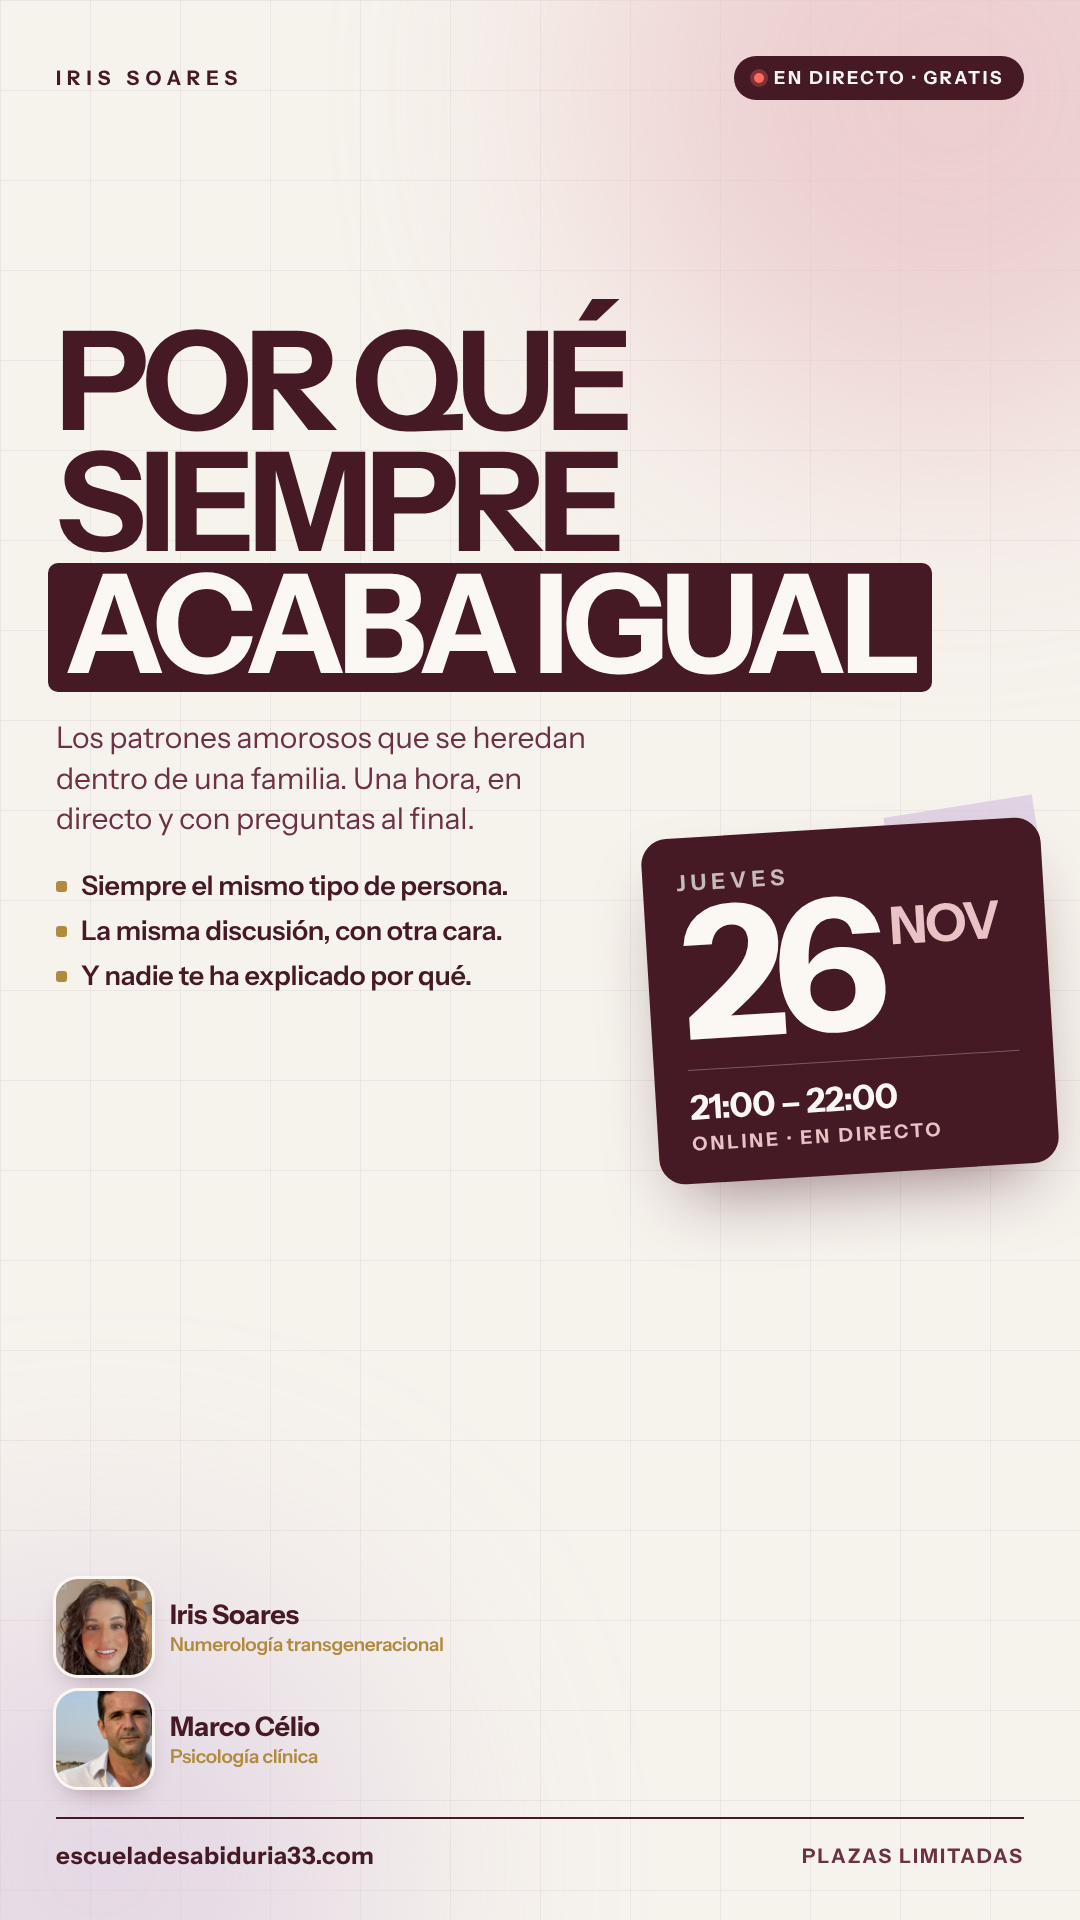
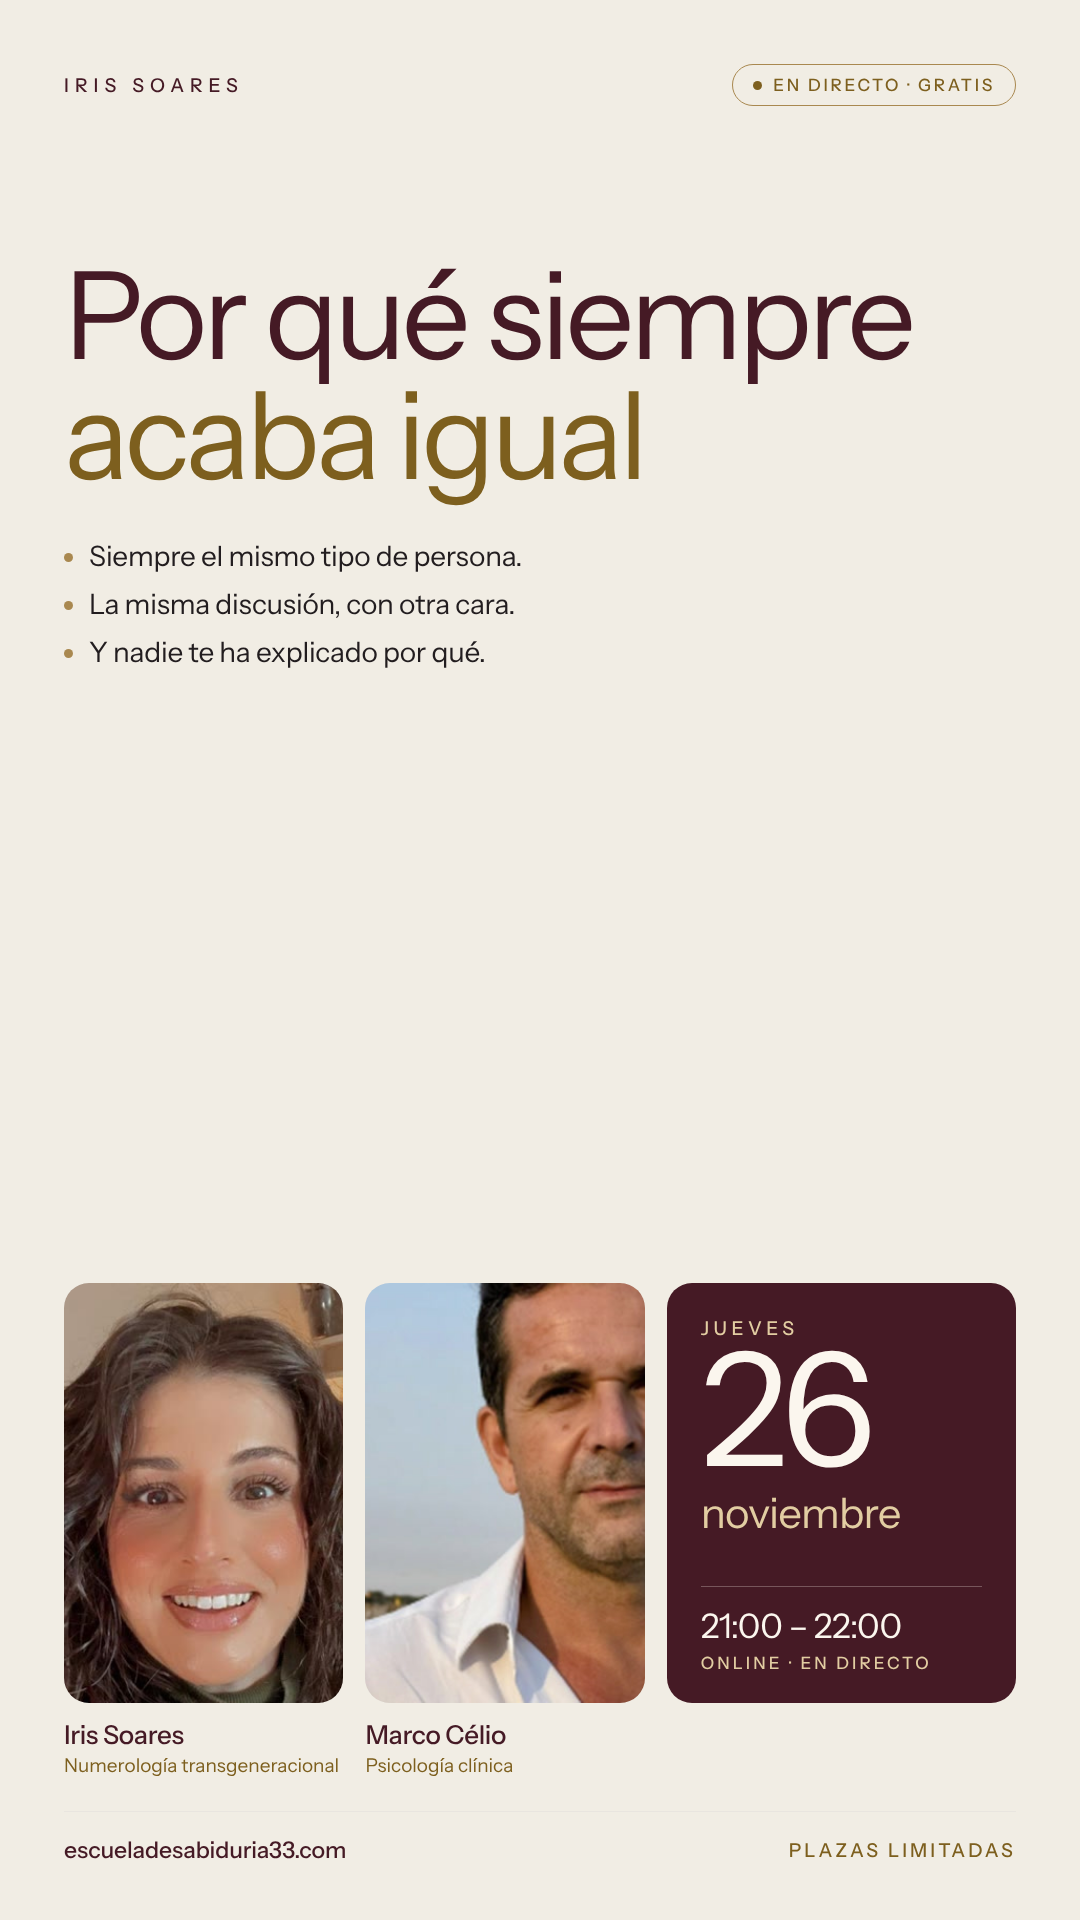
Los creativos, rehechos contra MARCA.md
Gerson, viendo una pieza con el titular encima de la cara de Iris: «¿a
usted le parece bien taparle la cara? busca archivos y documentos de hacer
buenos diseños, sigue los parámetros bien».

El documento estaba aquí mismo y lo que yo había hecho rompía cuatro
reglas escritas:

  §2  «Por encima de 500 no se sube. Un titular no se enfatiza
      engordándolo», y `--peso-fino` es 300 para los titulares grandes.
      Yo los puse todos a 700. Por eso parecían un cartel de discoteca y
      no esta marca — y por eso no era lo que se pidió dos veces, que era
      «Apple style modern light».
  §3  «Un color se usa por su token, nunca por su hexadecimal.» Me
      inventé un dorado #f2c14e, un rosa y un malva que no existen.
      Ahora sólo entran --vino, --oro, --oro-tinta, --oro-luz, --arena,
      --linea y --tinta. El énfasis del titular va en --oro-tinta y no en
      --oro, porque --oro no llega a 4,5:1 sobre claro y como texto no
      vale.
  §4  Radios 4 / 3 / 12 / 25 / 100. Usaba 26, 44 y 999 a ojo.
  §8.3 «Se mide, no se mira por encima: contraste, encuadre y SOLAPES se
      comprueban con una captura y un número.» No lo medí. De ahí el
      titular sobre la cara.

EL SOLAPE AHORA ES IMPOSIBLE, NO IMPROBABLE. Cada retrato vive en su
panel y el texto en el suyo; el nombre va debajo, sobre el crema. Y el
guion que las dibuja comprueba, pieza a pieza, que ningún texto pisa un
retrato, que nada se sale del lienzo y que no hay un peso por encima de
[…]

diff --git a/apps/web/public/anuncios/_plantilla-anuncios.html b/apps/web/public/anuncios/_plantilla-anuncios.html
@@ -1,0 +1,298 @@
+<!doctype html>
+<html lang="es">
+<head>
+<meta charset="utf-8">
+<title>Creativos · según MARCA.md</title>
+<style>
+  @font-face {
+    font-family: 'Instrument Sans';
+    src: url('instrument-sans.woff2') format('woff2');
+    font-weight: 300 700;
+    font-display: block;
+  }
+
+  /* ══════════════════════════════════════════════════════════════════════
+     LOS TOKENS DE LA MARCA, COPIADOS DE `MARCA.md` §3 Y §4.
+     Ni uno escrito a mano. Si hiciera falta un color que no está —un rosa,
+     por ejemplo— se añade primero allí y se usa después, que es lo que dice
+     la regla madre (§1).
+     ══════════════════════════════════════════════════════════════════════ */
+  :root {
+    --vino: #451a25;
+    --oro: #a9884f;
+    --oro-tinta: #7d5f1e;
+    --oro-luz: #e2cda2;
+    --tinta: #221d1f;
+    --papel: #ffffff;
+    --arena: #f1ede4;
+    --linea: #e9e5df;
+
+    /* §2 Los pesos. Por encima de 500 no se sube. */
+    --peso-fino: 300;
+    --peso-texto: 400;
+    --peso-medio: 500;
+
+    /* §4 Las formas. Sólo estos radios. */
+    --radio: 4px;
+    --radio-chico: 3px;
+    --radio-medio: 12px;
+    --radio-suave: 25px;
+    --radio-pildora: 100px;
+  }
+
+  * { box-sizing: border-box; margin: 0; padding: 0; }
+  body {
+    background: #9ca3af;
+    font-family: 'Instrument Sans', system-ui, sans-serif;
+    display: flex; flex-wrap: wrap; gap: 40px; padding: 40px;
+  }
+
+  .pieza {
+    position: relative; overflow: hidden;
+    width: 1080px; height: 1350px;
+    padding: 64px 64px 56px;
+    display: flex; flex-direction: column;
+    background: var(--arena);
+    color: var(--vino);
+  }
+  .p916 { height: 1920px; }
+
+  /* ------------------------------------------------------------ cabecera */
+  .cabecera { display: flex; align-items: center; justify-content: space-between; }
+  .marca {
+    font-size: 19px; font-weight: var(--peso-medio);
+    letter-spacing: .32em; text-transform: uppercase;
+    color: var(--vino);
+  }
+  .pastilla {
+    display: inline-flex; align-items: center; gap: 11px;
+    height: 42px; padding: 0 20px;
+    border-radius: var(--radio-pildora);
+    border: 1px solid var(--oro);
+    font-size: 17px; font-weight: var(--peso-medio);
+    letter-spacing: .16em; text-transform: uppercase;
+    color: var(--oro-tinta);
+  }
+  .brasa { width: 9px; height: 9px; border-radius: 50%; background: var(--oro-tinta); }
+
+  /* ------------------------------------------------------------- titular */
+  /* §2: el contraste sale del TAMAÑO y del ESPACIO, no del peso. 300, como
+     manda `--peso-fino`, y grande. Eso es «Apple style modern light». */
+  .titular {
+    margin-top: 52px;
+    font-size: 122px; font-weight: var(--peso-fino);
+    line-height: .98; letter-spacing: -.035em;
+    text-wrap: balance;
+    max-width: 880px;
+  }
+  .titular.largo { font-size: 104px; }
+  /* El énfasis, con el dorado que SÍ se lee sobre claro (§3). Nunca --oro. */
+  .titular b { font-weight: var(--peso-fino); color: var(--oro-tinta); }
+
+  .lista { margin-top: 44px; display: flex; flex-direction: column; gap: 14px; }
+  .lista li {
+    list-style: none; display: flex; align-items: baseline; gap: 16px;
+    font-size: 28px; font-weight: var(--peso-texto); letter-spacing: -.008em;
+    color: var(--tinta);
+  }
+  .lista li::before {
+    content: ''; flex: none;
+    width: 9px; height: 9px; border-radius: 50%;
+    background: var(--oro); transform: translateY(-4px);
+  }
+
+  /* ═════════════════════════════════════════════════ la franja de abajo
+     TRES PANELES Y NI UNA LETRA ENCIMA DE UNA CARA.
+     Los retratos van en su propio panel y el texto en el suyo. Así el solape
+     no es «poco probable»: es imposible por construcción. */
+  .franja {
+    margin-top: auto;
+    display: grid;
+    grid-template-columns: 1fr 1fr 1.25fr;
+    gap: 22px;
+  }
+  .panel {
+    border-radius: var(--radio-suave);
+    overflow: hidden;
+  }
+  .retrato { position: relative; height: 420px; background-color: var(--linea); }
+  .retrato .foto { position: absolute; inset: 0; background-size: cover; }
+  .retrato.iris .foto { background-image: url('iris-retrato.jpg'); background-position: 50% 32%; }
+  .retrato.marco .foto { background-image: url('marco-retrato.jpg'); background-position: 50% 30%; }
+  /* El nombre va DEBAJO del retrato, sobre el fondo crema. Nunca encima. */
+  .nombre { margin-top: 16px; }
+  .nombre b { display: block; font-size: 26px; font-weight: var(--peso-medio); letter-spacing: -.012em; }
+  .nombre span { display: block; margin-top: 3px; font-size: 19px; font-weight: var(--peso-texto); color: var(--oro-tinta); }
+
+  /* §3 de la plataforma: «la pieza oscura que ancla una pantalla clara. UNA
+     POR PANTALLA». Ésta es la única, y lleva la cita. */
+  .cita {
+    height: 420px; padding: 34px 34px 30px;
+    background: var(--vino); color: #fbf6ee;
+    display: flex; flex-direction: column; justify-content: space-between;
+  }
+  .cita .dia { font-size: 19px; font-weight: var(--peso-medio); letter-spacing: .24em; text-transform: uppercase; color: var(--oro-luz); }
+  .cita .numero { margin-top: 4px; font-size: 158px; font-weight: var(--peso-fino); line-height: .84; letter-spacing: -.05em; }
+  .cita .mes { margin-top: 10px; font-size: 42px; font-weight: var(--peso-fino); letter-spacing: -.02em; color: var(--oro-luz); }
+  .cita .raya { height: 1px; background: rgba(251,246,238,.28); }
+  .cita .hora { font-size: 34px; font-weight: var(--peso-fino); letter-spacing: -.02em; }
+  .cita .donde { margin-top: 6px; font-size: 17px; font-weight: var(--peso-medio); letter-spacing: .18em; text-transform: uppercase; color: var(--oro-luz); }
+
+  /* ------------------------------------------------------------------ pie */
+  .pie {
+    margin-top: 34px; padding-top: 24px;
+    border-top: 1px solid var(--linea);
+    display: flex; align-items: center; justify-content: space-between;
+    font-size: 19px; font-weight: var(--peso-medio);
+  }
+  .pie .web { letter-spacing: -.005em; font-size: 23px; }
+  .pie .plazas { letter-spacing: .16em; text-transform: uppercase; color: var(--oro-tinta); }
+</style>
+</head>
+<body>
+
+<!-- ╔══════════════════════════════════════════════════════════════════════╗
+     ║  REHECHO CONTRA `MARCA.md`, QUE ES EL DOCUMENTO QUE MANDA             ║
+     ║                                                                      ║
+     ║  Lo anterior rompía cuatro reglas escritas, y por eso no se parecía a ║
+     ║  esta marca:                                                         ║
+     ║                                                                      ║
+     ║   §2  «Por encima de 500 no se sube. Un titular no se enfatiza       ║
+     ║        engordándolo.» Iban todos a 700. Ahora a 300 —`--peso-fino`—  ║
+     ║        y grandes: el contraste sale del tamaño y del espacio, que es ║
+     ║        lo que Gerson pidió dos veces como «Apple style modern light».║
+     ║   §3  «Un color se usa por su token, nunca por su hexadecimal.» Me   ║
+     ║        inventé un dorado, un rosa y un malva. Fuera los tres: aquí   ║
+     ║        sólo entran --vino, --oro, --oro-tinta, --oro-luz, --arena,   ║
+     ║        --linea y --tinta. Si hace falta un rosa, se añade primero a  ║
+     ║        MARCA.md y se usa después.                                    ║
+     ║   §4  Radios 4 / 3 / 12 / 25 / 100. Usaba 26, 44 y 999 a ojo.        ║
+     ║   §8.3 «Se mide, no se mira por encima: contraste, encuadre y        ║
+     ║        SOLAPES se comprueban con una captura y un número.» No lo     ║
+     ║        medí, y le tapé la cara a la clienta con un titular.          ║
+     ║                                                                      ║
+     ║  EL SOLAPE AHORA ES IMPOSIBLE, no improbable: los retratos viven en  ║
+     ║  su propio panel y el texto en el suyo. Un nombre nunca va encima de ║
+     ║  una cara; va debajo, sobre el crema. Y hay un script al lado que lo ║
+     ║  comprueba y falla si algún texto pisa un retrato.                   ║
+     ╚══════════════════════════════════════════════════════════════════════╝ -->
+
+<div class="pieza" id="b1-acaba-igual">
+  <div class="cabecera">
+    <span class="marca">Iris Soares</span>
+    <span class="pastilla"><i class="brasa"></i>En directo · Gratis</span>
+  </div>
+  <h1 class="titular">Por qué siempre <b>acaba igual</b></h1>
+  <ul class="lista">
+    <li>Siempre el mismo tipo de persona.</li>
+    <li>La misma discusión, con otra cara.</li>
+    <li>Y nadie te ha explicado por qué.</li>
+  </ul>
+  <div class="franja">
+    <div>
+      <div class="panel retrato iris"><i class="foto"></i></div>
+      <div class="nombre"><b>Iris Soares</b><span>Numerología transgeneracional</span></div>
+    </div>
+    <div>
+      <div class="panel retrato marco"><i class="foto"></i></div>
+      <div class="nombre"><b>Marco Célio</b><span>Psicología clínica</span></div>
+    </div>
+    <div class="panel cita">
+      <div>
+        <p class="dia">Jueves</p>
+        <p class="numero">26</p>
+        <p class="mes">noviembre</p>
+      </div>
+      <div>
+        <div class="raya" style="margin-bottom:18px"></div>
+        <p class="hora">21:00 – 22:00</p>
+        <p class="donde">Online · En directo</p>
+      </div>
+    </div>
+  </div>
+  <div class="pie">
+    <span class="web">escueladesabiduria33.com</span>
+    <span class="plazas">Plazas limitadas</span>
+  </div>
+</div>
+
+<div class="pieza" id="b2-tres-fechas">
+  <div class="cabecera">
+    <span class="marca">Iris Soares</span>
+    <span class="pastilla"><i class="brasa"></i>En directo · Gratis</span>
+  </div>
+  <h1 class="titular largo">Trae tres <b>fechas de nacimiento</b></h1>
+  <ul class="lista">
+    <li>La edad a la que cada una se emparejó.</li>
+    <li>El tipo de persona que eligió.</li>
+    <li>Cómo acabó. Y cuánto se parece.</li>
+  </ul>
+  <div class="franja">
+    <div>
+      <div class="panel retrato iris"><i class="foto"></i></div>
+      <div class="nombre"><b>Iris Soares</b><span>Numerología transgeneracional</span></div>
+    </div>
+    <div>
+      <div class="panel retrato marco"><i class="foto"></i></div>
+      <div class="nombre"><b>Marco Célio</b><span>Psicología clínica</span></div>
+    </div>
+    <div class="panel cita">
+      <div>
+        <p class="dia">Jueves</p>
+        <p class="numero">26</p>
+        <p class="mes">noviembre</p>
+      </div>
+      <div>
+        <div class="raya" style="margin-bottom:18px"></div>
+        <p class="hora">21:00 – 22:00</p>
+        <p class="donde">Online · En directo</p>
+      </div>
+    </div>
+  </div>
+  <div class="pie">
+    <span class="web">escueladesabiduria33.com</span>
+    <span class="plazas">Plazas limitadas</span>
+  </div>
+</div>
+
+<div class="pieza p916" id="b1-acaba-igual-9x16">
+  <div class="cabecera">
+    <span class="marca">Iris Soares</span>
+    <span class="pastilla"><i class="brasa"></i>En directo · Gratis</span>
+  </div>
+  <h1 class="titular" style="margin-top:150px">Por qué siempre <b>acaba igual</b></h1>
+  <ul class="lista">
+    <li>Siempre el mismo tipo de persona.</li>
+    <li>La misma discusión, con otra cara.</li>
+    <li>Y nadie te ha explicado por qué.</li>
+  </ul>
+  <div class="franja">
+    <div>
+      <div class="panel retrato iris"><i class="foto"></i></div>
+      <div class="nombre"><b>Iris Soares</b><span>Numerología transgeneracional</span></div>
+    </div>
+    <div>
+      <div class="panel retrato marco"><i class="foto"></i></div>
+      <div class="nombre"><b>Marco Célio</b><span>Psicología clínica</span></div>
+    </div>
+    <div class="panel cita">
+      <div>
+        <p class="dia">Jueves</p>
+        <p class="numero">26</p>
+        <p class="mes">noviembre</p>
+      </div>
+      <div>
+        <div class="raya" style="margin-bottom:18px"></div>
+        <p class="hora">21:00 – 22:00</p>
+        <p class="donde">Online · En directo</p>
+      </div>
+    </div>
+  </div>
+  <div class="pie">
+    <span class="web">escueladesabiduria33.com</span>
+    <span class="plazas">Plazas limitadas</span>
+  </div>
+</div>
+
+</body>
+</html>
